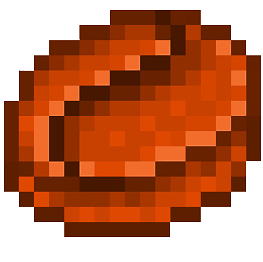
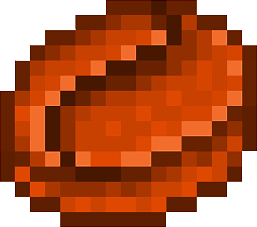
cosmetic dropdown

diff --git a/src/components/upgrades.jsx b/src/components/upgrades.jsx
@@ -3,22 +3,82 @@ const Upgrades = (props) => {
     const buyBeans = (increment) => {
         props.setCoffee((currentResources) => {
           const newResources = {...currentResources};
-          if(newResources.money < increment*2) {
+          if(newResources.money < increment) {
             return newResources;
           } else {
-            newResources.money -= increment*2;
+            newResources.money -= increment;
             newResources.beans += increment;
             return newResources;
           }
         });
       };
 
+    const buyCupSkin = (skinName) => {
+
+      const costObj = {
+        "Blue-coffee-cup.png": 200,
+        "White-coffee-cup.png": 100,
+        "Purple-coffee-cup.png": 300,
+        "Flower-coffee-cup.png": 400,
+        "Cat-coffee-cup.png": 600,
+        "Sky-coffee-cup.png": 1000
+      }
+
+      props.setSkin((currentSkin) => {
+
+        const newSkin = {...currentSkin};
+
+        props.setCoffee((currentResources) => {
+
+          const newResources = {...currentResources};
+
+          if(newResources.money < costObj[skinName]){
+
+            return newResources;
+
+          } else {
+
+            newResources.money -= costObj[skinName];
+            newSkin.skin = skinName;
+            
+            return newResources;
+          }
+        })
+        return newSkin;
+      })
+    }
+
     return (
         <section id="upgrade-panel">
+          <div className="bean-market">
             <h3>Bean market</h3>
             <button onClick={() => buyBeans(1)}><img src="bean.png" id="bean" alt="Coffee Bean "></img>1</button>
-            <button onClick={() => buyBeans(10)}>Buy 10 beans</button>
-            <button onClick={() => buyBeans(100)}>Buy 100 beans</button>
+            <button onClick={() => buyBeans(10)}><img src="bean.png" id="bean" alt="Coffee Bean "></img>10</button>
+            <button onClick={() => buyBeans(100)}><img src="bean.png" id="bean" alt="Coffee Bean "></img>100</button>
+          </div>
+          <div className="coffee-production">
+            <h3>Coffee production</h3>
+            <button onClick={() => buyBeans(1)}>Barrista</button>
+            <button onClick={() => buyBeans(10)}>Coffee shop</button>
+            <button onClick={() => buyBeans(100)}>Factory</button>
+          </div>
+          <div className="bean-production">
+            <h3>Bean production</h3>
+          </div>
+          <div className="cosmetics">
+            <h3>Cosmetics upgrades</h3>
+            <form>
+              <select className="cup-skins" onChange={(event) => buyCupSkin(event.target.value)} name="cups">
+              <option disabled hidden selected>Cup skins</option>
+                <option value="White-coffee-cup.png">White - cost 100</option>
+                <option value="Blue-coffee-cup.png">Blue - cost 200</option>
+                <option value="Purple-coffee-cup.png">Purple - cost 300</option>
+                <option value="Flower-coffee-cup.png">Flower - cost 400</option>
+                <option value="Cat-coffee-cup.png">Cat? - cost 600</option>
+                <option value="Sky-coffee-cup.png">Sky - cost 1000</option>
+              </select>
+            </form>
+          </div>
         </section>
         
     )

diff --git a/src/App.css b/src/App.css
@@ -7,6 +7,7 @@
 .App {
   text-align: center;
   background-color: #ddcfbb;
+  height: 100vh;
 }
 
 header {
@@ -34,7 +35,8 @@ header {
 }
 
 #cup {
-  margin: 2.5rem;
+  margin: 10rem;
+  min-height: 200px;
   max-height: 200px;
   cursor: pointer;
 }
@@ -44,17 +46,19 @@ header {
 }
 
 #upgrade-panel {
-  display: flex;
-  flex-direction: column;
-  bottom: 0;
   border: 2px solid #4b1818;
   border-radius: 15px;
   margin: 1rem;
   padding: 2rem;
-  justify-content: center;
-  align-items: center;
   background-color: #dabe95;
   color: #4b1818;
+  display: grid;
+  grid-template-columns: 1fr 1fr 1fr 1.5fr;
+}
+
+#upgrade-panel button img {
+  height: 0.8rem;
+  padding-right: 3px;
 }
 
 #upgrade-panel button {
@@ -64,6 +68,7 @@ header {
   background-color: #e57920;
   color: #4b1818;
   border: #dabe95 solid;
+  font-size: 1.2rem;
 }
 
 #upgrade-panel button:hover {
@@ -71,3 +76,41 @@ header {
   cursor: pointer;
 }
 
+#upgrades-div {
+  position: absolute;
+  bottom: 10px;
+  width: 100%;
+}
+
+h3{
+  color: #4b1818;
+}
+
+#coffee-counter{
+  text-align: left;
+  margin-left: 1rem;
+  margin-top: 0.5rem;
+}
+
+#upgrade-panel h3 {
+  margin-bottom: 1rem;
+}
+
+.bean-market {
+  display: grid;
+  grid-column-start: 1;
+  justify-content: center;
+}
+
+.cosmetics {
+  grid-column-start: 4;
+}
+
+.cup-skins {
+  border-radius: 15px;
+  padding: 4px;
+  background-color: #e57920;
+  color: #4b1818;
+  border: #dabe95 solid;
+  font-size: 0.8rem;
+}

diff --git a/src/components/display-panel.jsx b/src/components/display-panel.jsx
@@ -2,8 +2,8 @@ import { useState } from 'react'
 import Upgrades from "./upgrades"
 
 const Display = () => {
-    const [resources, setCoffee] = useState({beans: 10, money: 0})
-
+    const [resources, setCoffee] = useState({beans: 10, money: 0, coffee: 0})
+    const [currentSkin, setSkin] = useState({skin:"White-coffee-cup.png"})
 
     const makeCoffee = (event) => {
       setCoffee((currentResources) => {
@@ -11,7 +11,8 @@ const Display = () => {
         if(newResources.beans < 1) {
           return newResources;
         } else {
-          newResources.money += 5;
+          newResources.coffee += 1;
+          newResources.money += 3;
           newResources.beans -= 1;
           return newResources;
         }
@@ -24,8 +25,11 @@ const Display = () => {
         <h3><img src="coin.png" id="coin" alt="Gold coin"></img> {resources.money}</h3>
         <h3><img src="bean.png" id="bean" alt="Coffee Bean "></img> {resources.beans}</h3>
       </section>
-      <img src="cup.png" id="cup" onClick={()=> makeCoffee()}></img>
-      <Upgrades resources={resources} setCoffee={setCoffee}/>
+      <h3 id="coffee-counter">Coffees brewed: {resources.coffee}</h3>
+      <img src={currentSkin.skin} id="cup" onClick={()=> makeCoffee()}></img>
+      <section id="upgrades-div">
+        <Upgrades resources={resources} setCoffee={setCoffee} setSkin={setSkin} currentSkin={currentSkin}/>
+      </section>
     </main>
   );
 };
